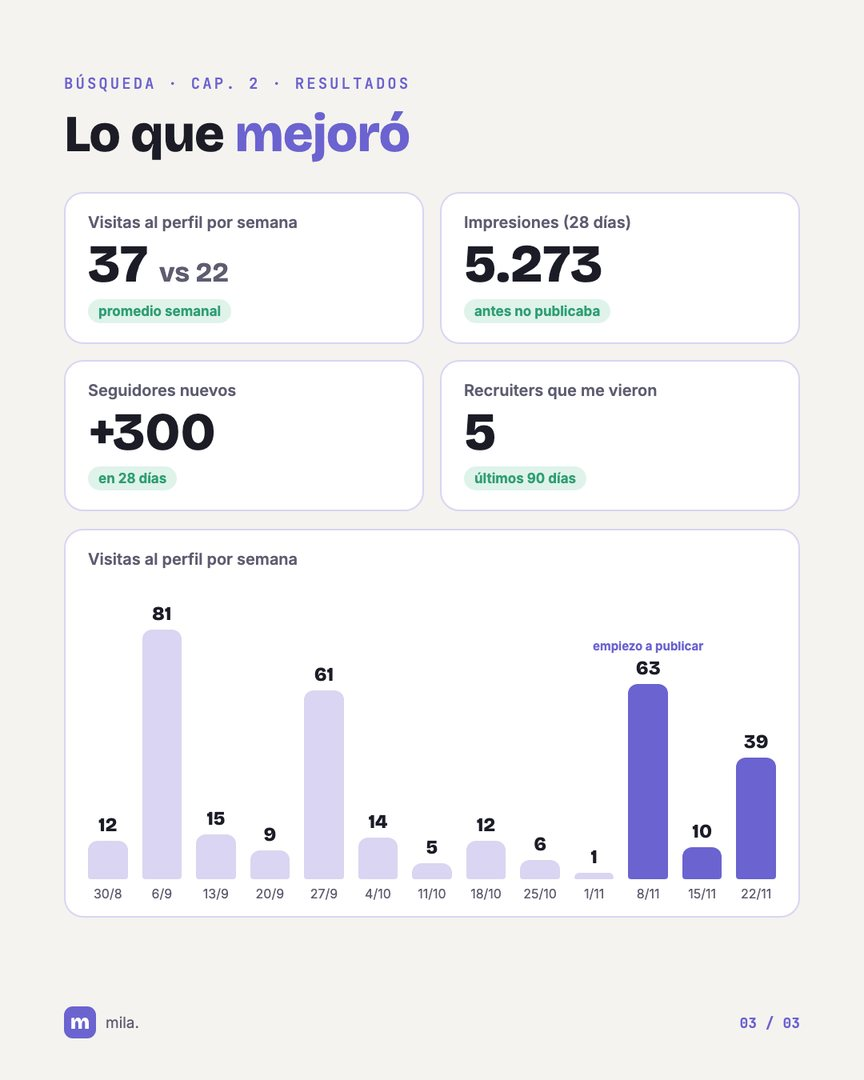
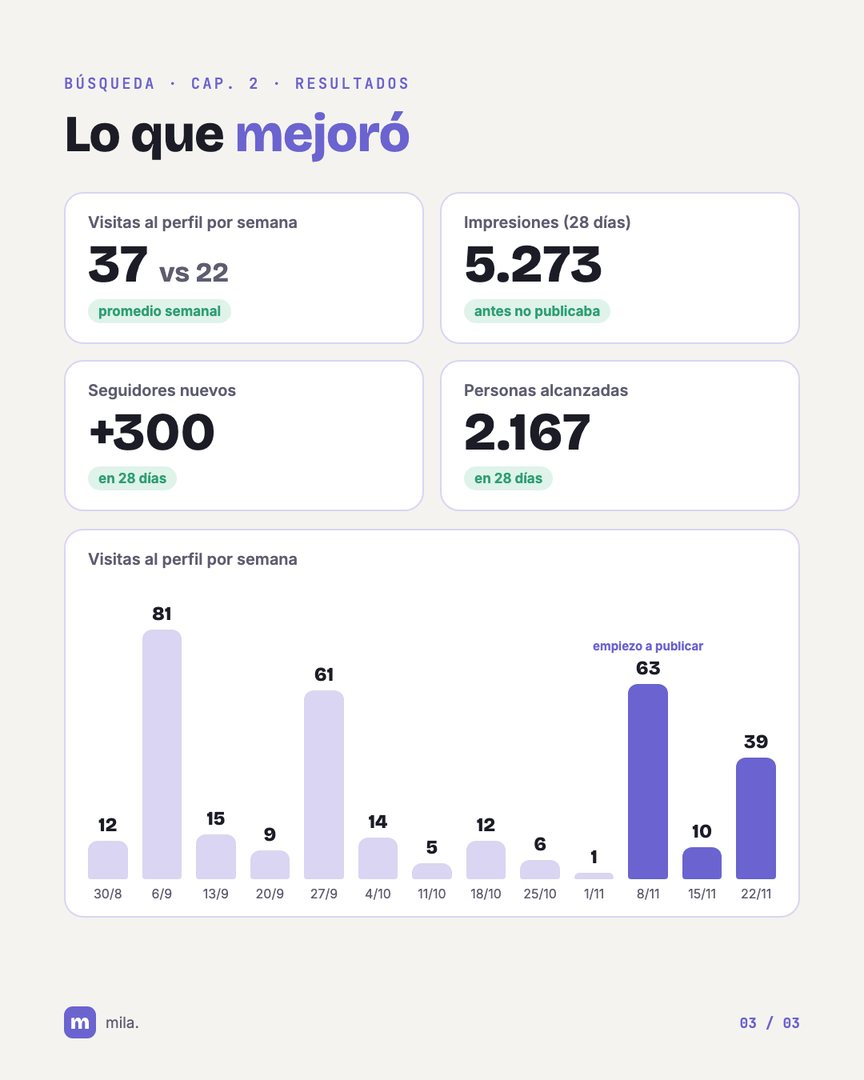
Mi camino: Capítulo 2 enfocado en resultados

Changed region(s): [[0.5312, 0.3361, 0.75, 0.4583]]

diff --git a/mi-camino/index.html b/mi-camino/index.html
@@ -436,7 +436,7 @@ section.acordeon > h2 { margin:0; max-width:none; font:inherit; letter-spacing:n
       texto: 'Lo encaré como cualquier proceso:\n\n→ AS-IS: me postulaba a todo, sin filtro.\n→ KPIs: definí qué roles encajan conmigo y qué me falta.\n→ Automatización: con Claude Code armé un script que cada mañana puntúa los avisos y los carga en un Sheet.\n→ TO-BE: LinkedIn y CV con logros en lugar de tareas.\n→ Mejora: a las 2 semanas medí y vi que la IA solo movía datos. La rediseñé: de 1,6 M tokens por día a cero.',
       placas: img('busqueda', 5), alt: 'Mi búsqueda' },
     { chip: "✦ ¿Funcionó?", fecha: 'Inédito · datos al 22 de noviembre', exclusivo: true, titulo: "Si mi trabajo es medir procesos, ¿por qué no medir el de mi propia búsqueda? 📊",
-      texto: "Hace unas semanas rediseñé mi búsqueda con AS-IS, KPIs y TO-BE. Esta es la parte que casi nadie muestra: verificar si funcionó.\n\n→ Visitas al perfil: de 22 a 37 por semana, en promedio.\n→ Impresiones: 5.273 en 28 días.\n→ Seguidores nuevos: +300.\n→ Recruiters: 5 vieron mi perfil.\n\n¿Lo que todavía no funciona? Casi nadie entra a mi portfolio: 5 clics a mis links. Ese es mi ajuste para la próxima vuelta. 🔁\n\nSi querés medir la tuya, empezá por 3 KPIs gratis de LinkedIn: visitas al perfil, recruiters que te vieron y clics a tus links.",
+      texto: "Hace unas semanas rediseñé mi búsqueda con AS-IS, KPIs y TO-BE. Esta es la parte que casi nadie muestra: verificar si funcionó.\n\n→ Visitas al perfil: de 22 a 37 por semana, en promedio.\n→ Impresiones: 5.273 en 28 días.\n→ Seguidores nuevos: +300.\n\nSi querés medir la tuya, empezá por 3 KPIs gratis de LinkedIn: visitas al perfil, recruiters que te vieron y clics a tus links.",
       placas: img("capitulo-2", 3), alt: "Capítulo 2" },
     { chip: "✦ Mi GitHub", fecha: 'Inédito', exclusivo: true, titulo: "No soy programadora. Tengo un GitHub. 💜",
       texto: "Ninguno de mis repos nació de «quiero hacer una app». Cada uno es un proceso que fallaba y me cansé de resolver a mano.\n\n→ Cobros de préstamos en planillas sueltas → una app con rentabilidad mes a mes.\n→ Mi recorrido desparramado en PDFs → un portfolio con apps para probar en vivo.\n→ Una ciudad con 10 trámites en 10 lugares → el prototipo de mi trabajo final.\n\nLo que cambió no es la herramienta, es el orden: primero entiendo el proceso, después lo construyo con Claude Code.\n\nEn las últimas imágenes te dejo las 5 preguntas que me hago antes de automatizar y un prompt para copiar 👇",
